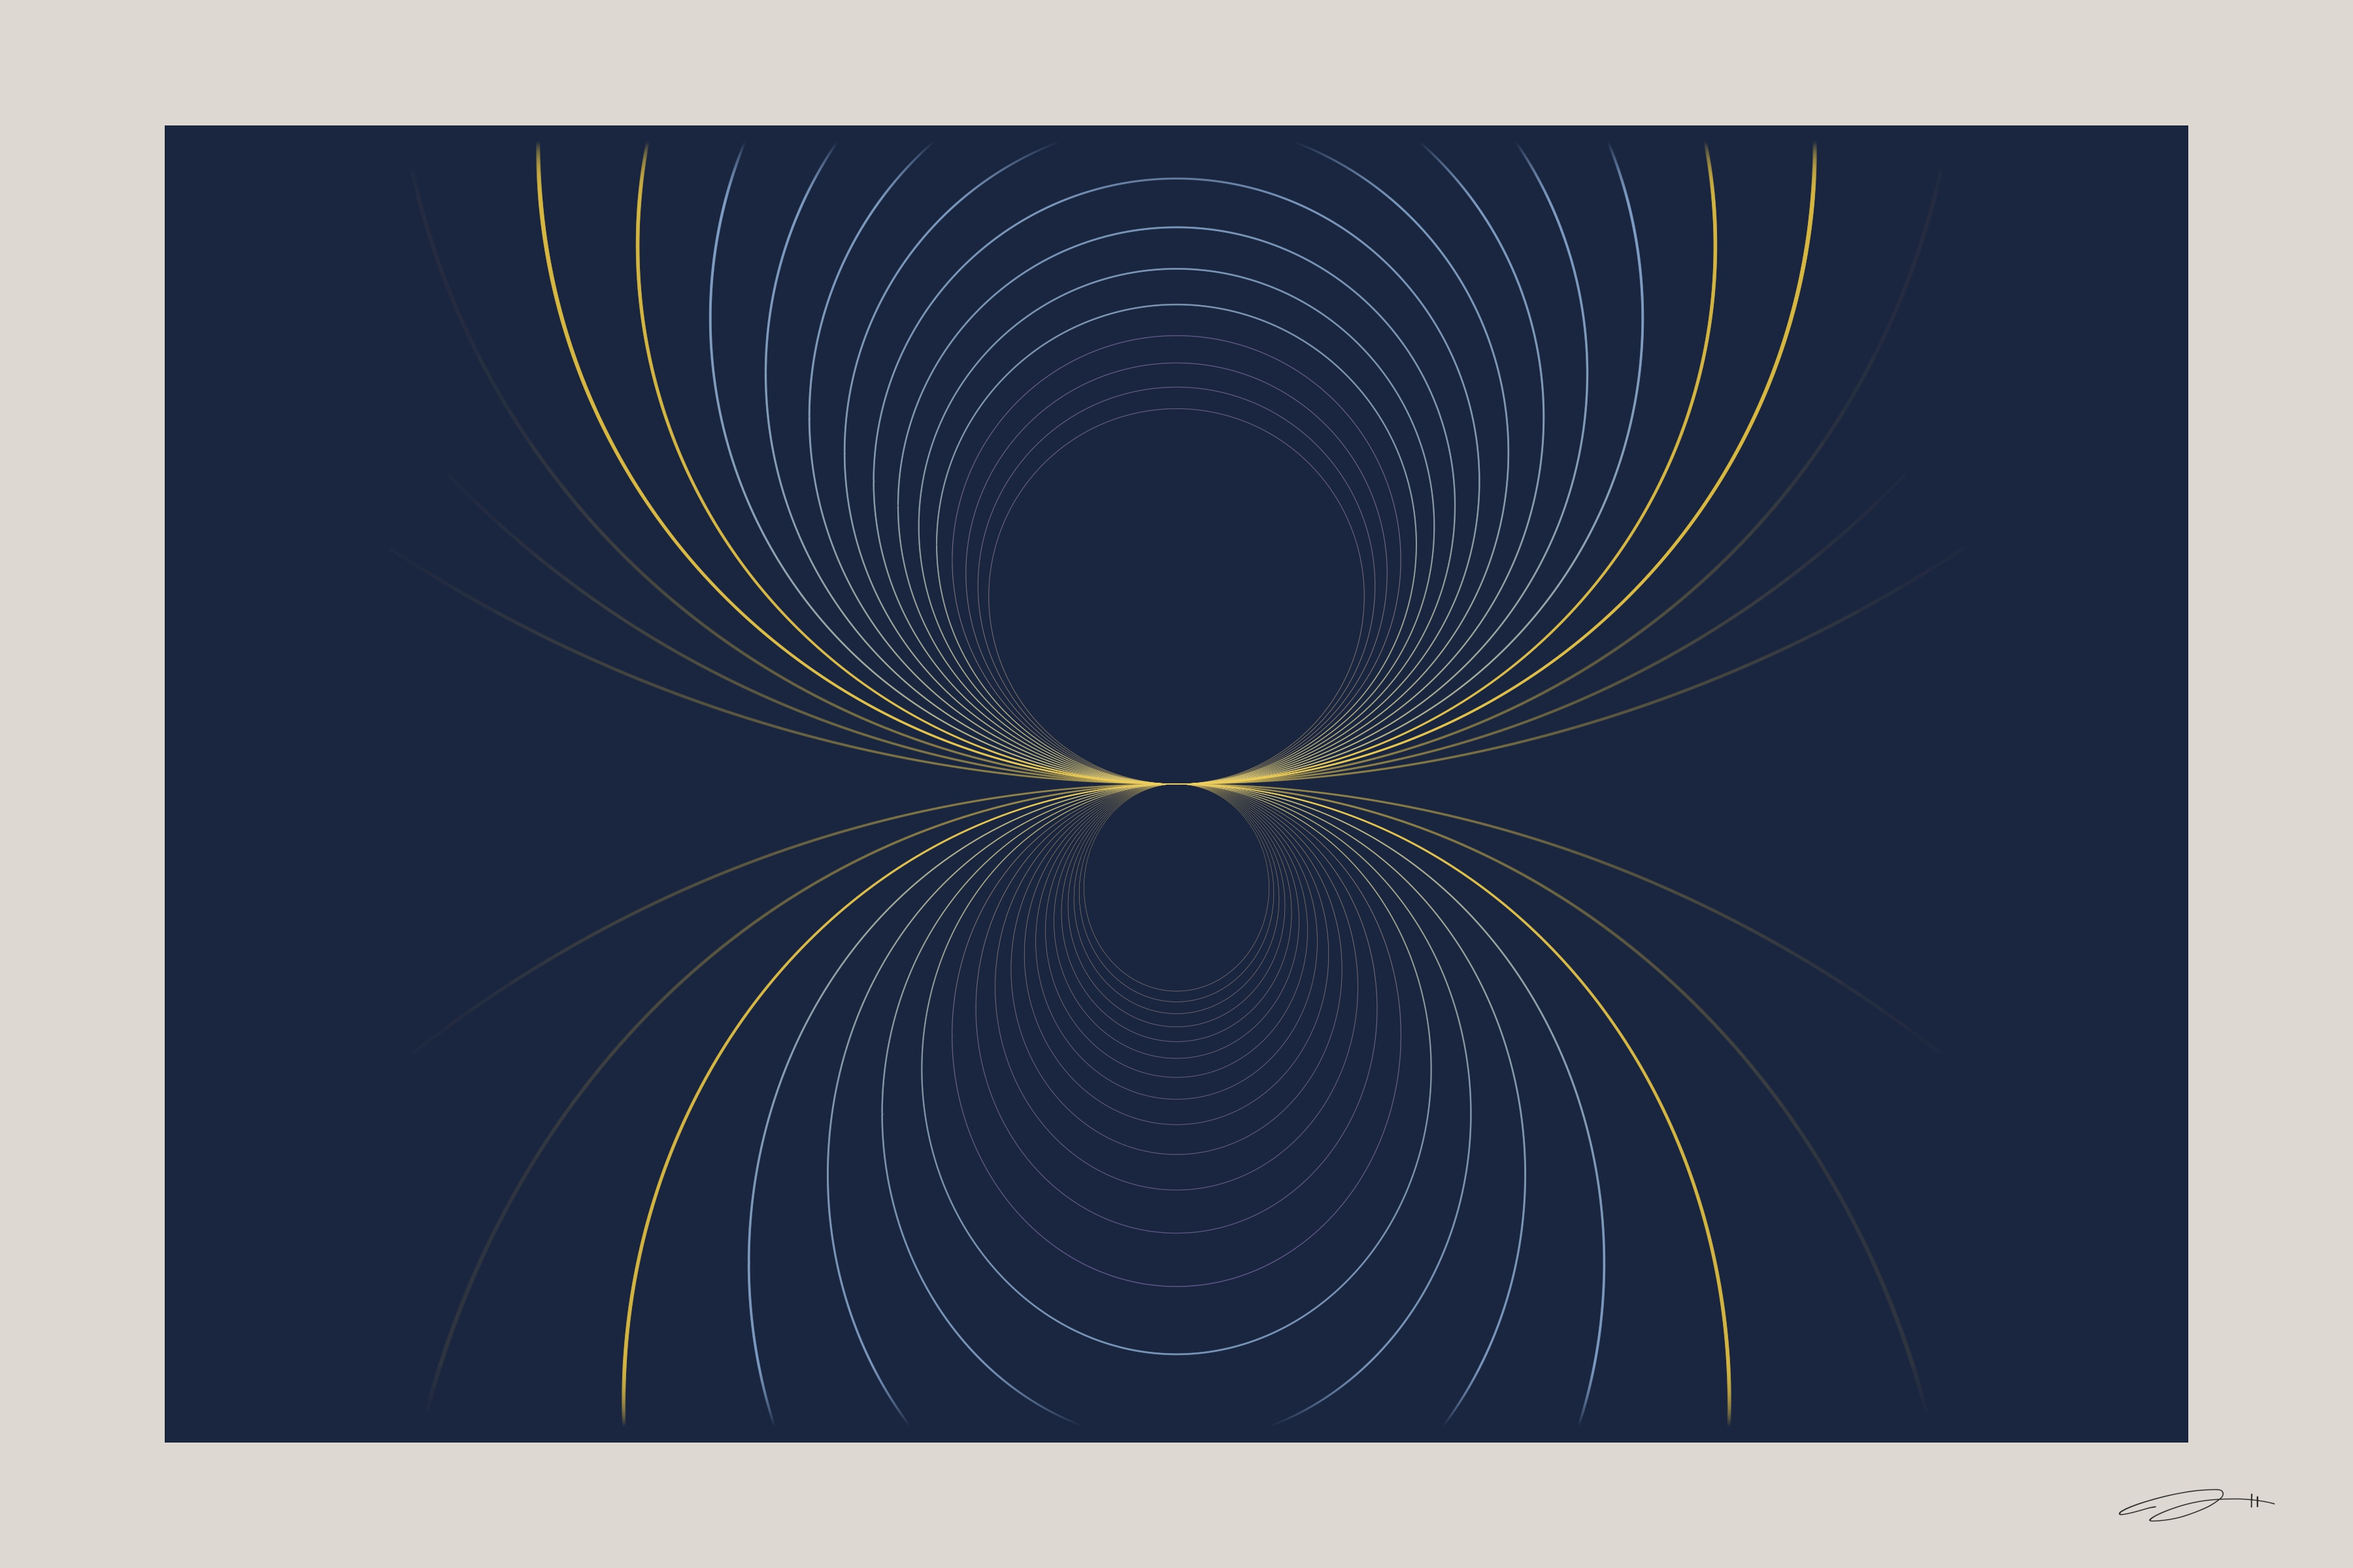
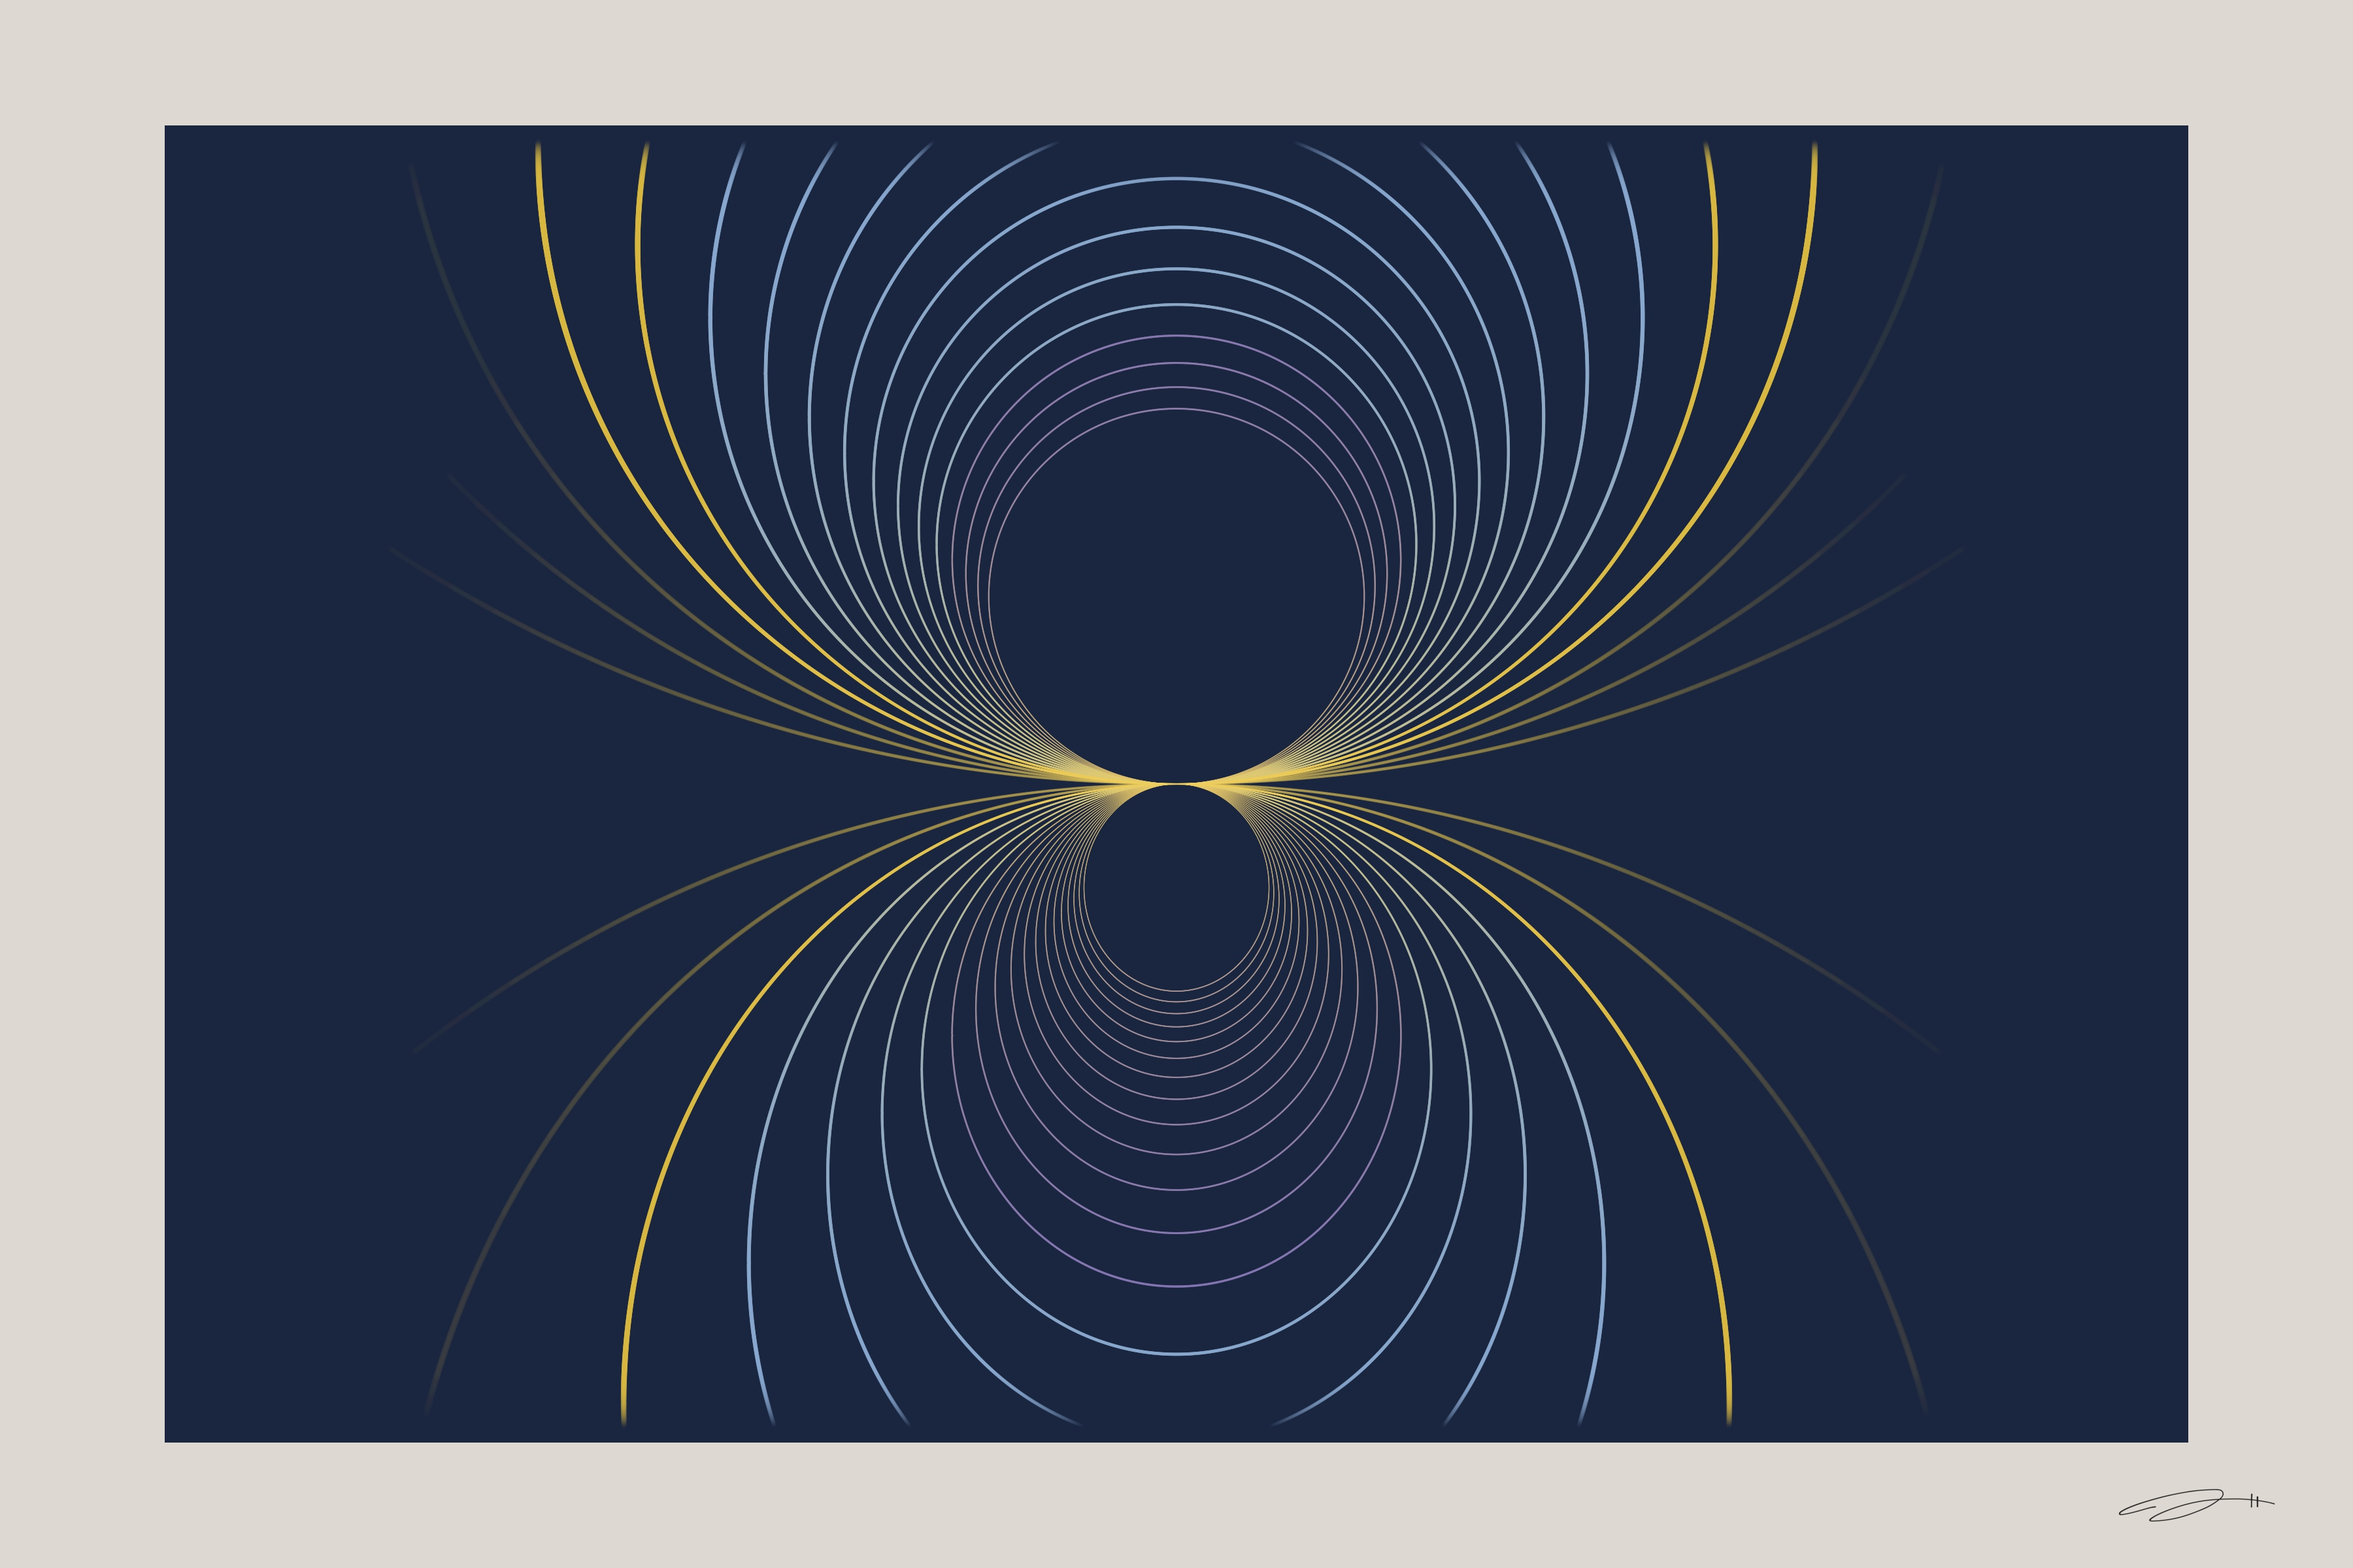
Boost Meditation line density — all circles more visible from distance
Raised alpha and lineweight floors across all color tiers so inner
circles read at thumbnail size while preserving taper and vanishing effect.

Changed region(s): [[0.3111, 0.2812, 0.6844, 0.6875], [0.56, 0.2812, 0.5911, 0.3125], [0.5289, 0.25, 0.56, 0.2812]]

diff --git a/mathematical_affect/pieces/wonder/wonder_meditation.py b/mathematical_affect/pieces/wonder/wonder_meditation.py
@@ -135,17 +135,17 @@ def render(alpha_boost=1.0, lw_boost=1.0):
 
         if t_norm < 0.3:
             col = PALE_VIOLET
-            alpha = (0.04 + t_norm * 0.45) * alpha_boost
-            lw_base = (0.2 + t_norm * 0.6) * lw_boost
+            alpha = (0.12 + t_norm * 0.50) * alpha_boost
+            lw_base = (0.4 + t_norm * 0.8) * lw_boost
         elif t_norm < 0.6:
             col = ICE
-            alpha = (0.25 + (t_norm - 0.3) * 0.4) * alpha_boost
-            lw_base = (0.6 + (t_norm - 0.3) * 0.8) * lw_boost
+            alpha = (0.35 + (t_norm - 0.3) * 0.4) * alpha_boost
+            lw_base = (0.8 + (t_norm - 0.3) * 1.0) * lw_boost
         else:
             col = WARM_GOLD
             outer_fade = min(1.0, (1.0 - t_norm) / 0.12) if t_norm > 0.88 else 1.0
-            alpha = (0.40 + (t_norm - 0.6) * 0.4) * outer_fade * alpha_boost
-            lw_base = (1.0 + (t_norm - 0.6) * 1.0) * lw_boost
+            alpha = (0.50 + (t_norm - 0.6) * 0.35) * outer_fade * alpha_boost
+            lw_base = (1.2 + (t_norm - 0.6) * 1.0) * lw_boost
 
         for seg_x, seg_y in segments:
             pts = np.array([seg_x, seg_y]).T.reshape(-1, 1, 2)
@@ -200,14 +200,14 @@ if __name__ == '__main__':
     print("═══ Wonder: Meditation ═══")
 
     # Print PDF — slightly boosted line density
-    fig = render(lw_boost=1.2)
+    fig = render(alpha_boost=1.1, lw_boost=1.4)
     pdf_path = os.path.join(OUTPUT_DIR, "wonder_meditation.pdf")
     fig.savefig(pdf_path, format='pdf', facecolor=MARGIN_COLOR, dpi=DPI)
     print(f"  saved {pdf_path}")
     plt.close(fig)
 
     # Punchier version for web thumbnail
-    fig = render(alpha_boost=1.4, lw_boost=1.3)
+    fig = render(alpha_boost=1.5, lw_boost=1.6)
     jpg_path = os.path.join(PRINT_DIR, "wonder_meditation.jpg")
     fig.savefig(jpg_path, facecolor=MARGIN_COLOR, dpi=DPI,
                 pil_kwargs={"quality": 96})
